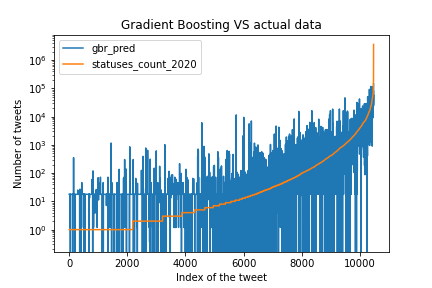
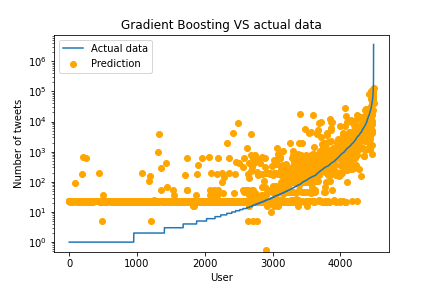
Modified things

diff --git a/index.html b/index.html
@@ -23,8 +23,7 @@ description: "Data story"
   </p>
   <p>
     <div>
-      <h4>Results</h4>
-      <h5>Monthly Rhythms</h5>
+      <h3>Monthly Rhythms</h3>
       <p class="blocktext">
       Let's first look at how much do people posts during a year.
       </p>
@@ -68,70 +67,97 @@ description: "Data story"
               </div>
               <div class="grid-child two">
                   <p class="blocktext">
-                   Now, about the other months, there seems to be a different case for each year, this might be explained by different events which create a lot of discussion/post,
-                  such as the US election in late 2011 or the <a href="https://en.wikipedia.org/wiki/UEFA_Euro_2012" style="text-decoration-line: underline;">UEFA EURO in June 2012</a>. 
-                  Looking at the number of tweets made in 2012 by Spanish speakers, who are huge football fans and followed the adventure of their team from start to finish,
-                  a clear spike appears on June compared to the other years.
+                   Now, if we take a look at the other months, we can not really point out a month that is always bigger than the others or distinguish any pattern. 
+                   This might be explained by different events which create a lot of discussion/post,
+                   such as the US election in late 2011 or the <a href="https://en.wikipedia.org/wiki/UEFA_Euro_2012" style="text-decoration-line: underline;">UEFA EURO in June 2012</a>.
+                   Furthermore, the distribution  appears to become more uniform as the user database grows. Indeed we see that overall, the number of tweets increased by 550%
+                   from 2011 to 2013.
+                   
                    </p>
               </div>
           </div>
   </div>
   </p>
+  <p>We thus wanted to check if events had a real influence on how people tweet. We take the example of the Euro. <br> 
+    Looking at the number of tweets made in 2012 by Spanish speakers, who are huge football fans and followed the adventure of their team from start to finish,
+    a clear spike appears in June compared to the other years.
+    </p>
+
   <p class="images">
     <div class="grid-container">
       <div class="grid-child one">
-          <img src="{{ site.baseurl}}/assets/images/spanishmonth2011.png" />
+          <img src="{{ site.baseurl}}/assets/images/spanish2011.png" />
       </div>
       
       <div class="grid-child two">
-        <img src="{{ site.baseurl}}/assets/images/spanishmonth2012.png"  />
+        <img src="{{ site.baseurl}}/assets/images/spanish2012.png"  />
       </div>
 
       <div class="grid-child three">
-        <img src="{{ site.baseurl}}/assets/images/spanishmonth2013.png" />
+        <img src="{{ site.baseurl}}/assets/images/spanish2013.png" />
+      </div>
+      <div class="grid-child four">
+        <p>
+          This example strengthens the hypothesis that there is no monthly pattern. It's a lot more probable that the number of tweets is correlated to 
+          what happens during the year, thus being highly influenced by predictable or unpredictable events.
+          We could for example imagine that the number of tweets for the year 2020 would explode around
+          March/April because of COVID and around October/November because of this historic US election, having a president that tweets a lot.
+        </p>
       </div>
   </div>
   </p>
 
-  <p>
-    This shows that there is no monthly pattern as the number of tweets seems to be correlated to what happens during the year, thus being highly influenced by
-    predictable or unpredictable events. We could for example imagine that the number of tweets for the year 2020 would explode around
-    March/April because of COVID and around October/November because of this historic US election, having a president that tweets a lot.
-  </p>
-
-  <h5>How much will a user tweet?</h5>
+  <h3>How much will a user tweet?</h3>
   <p>
     Can we predict how much a user will post in 2020, knowing how many followers, followees he has and how those features evolved since 2014. Of course not! 
     But we still tried just to prove that human behaviour is highly unpredictable.
   </p>
-  <div>
-    <h4>Results</h4>
+  <h4>Train step</h4>
     <p>
-    First of all, some cross-validation steps were performed. 
+    First of all, we went with a blunt try and kept the data unchanged (Spoiler Alert: didn't work well...). We tried 2 different models to predict those values.
+    One was Ridge Regression, the other was a Gradient Boosting Regression model. <br>
+    As we are conscientious (aspiring) Data Scientists, we first performed some cross-validation on the dataset. We used the R<sup>2</sup> value to choose our hyperparameter. 
+    </p>
+    <p class="images">
+      <div class="grid-container">
+        <div class="grid-child one">
+            <img src="{{ site.baseurl }}/assets/images/CrossValRidge.png" />
+        </div>
+        
+        <div class="grid-child two">
+          <img src="{{ site.baseurl }}/assets/images/CrossValGBR.png"  />
+        </div>
+      </div>
+    </p>
+  
+    <p>
+    Those graphs seem to show, in addition to the best hyperparameters for both models, that Gradient Boosting manages to explain slightly better the data compared to
+    Ridge Regression.
+    We see that Ridge Regression performs very poorly unless the alpha parameter is in the order of 10<sup>10</sup> Gradient Boosting however doesn't change much on based on
+    the learning rate for the best model.
+    </p>
+    <h4>Test our best models</h4>
+    <p>
+      Now that we have our prepared our models and found the best hyperparameters, let's test them.
+    </p>
+    <p class="images">
+      <div class="grid-container">
+        <div class="grid-child one">
+            <img src="{{ site.baseurl }}/assets/images/rrpred.png" />
+        </div>
+        
+        <div class="grid-child two">
+          <img src="{{ site.baseurl }}/assets/images/gbrpred.png"  />
+        </div>
+      </div>
     </p>
     <p>
-    <img src="{{ site.baseurl }}/assets/images/CrossValRidge.png" class="half_width" />
-    <legend>Cross Validation for Ridge</legend>
-    <img src="{{ site.baseurl }}/assets/images/CrossValGBR.png" class="half_width" />
-    <legend>Cross Validation for Gradient Boosting</legend>
-    </p>
-    <p>
-    Those graphs seem to show, in addition to the best hyperparameters for both models, that Gradient Boosting will be outputting better predictions than Ridge.
-    </p>
-    <p>
-    <img src="{{ site.baseurl }}/assets/images/rrpred.png" class="half_width" />
-    <legend>Ridge prediction vs Actual data</legend>
-    <img src="{{ site.baseurl }}/assets/images/gbrpred.png" class="half_width" />
-    <legend>Gradient Boosting vs Actual data</legend>
-    </p>
-    <p>
-    <h4>Analysis</h4>
-    <p>
+    Okay. That is a bit embarassing. Both methods seem to give quite poor results.  
     In reality, both these methods seem to give quite poor results. First of all, each model has a tendency to find some negative values, Gradient Boosting more than Ridge, which we know is impossible as no users could have a negative number of tweets. A reason this might occur is the existence of a reduction in the number of tweets for some user, in fact some user might have deleted their tweets for whatever reason, meaning that the number of tweets over time is going down. Then, we can clearly see a sort of constant at the start of each graph, with the one of Gradient Boosting being lower even though less visible than the one of Ridge, meaning that the models do not distinguish lower values very well.
     All in all, it is unlikely to be able to predict the number of tweets a user will be making in 6 years based on some old data, because the number of tweets made by an account does not seem to correlate with the number of followers a user has.
     
     Some idea to perform better would be to have a better history of the account, maybe on a year by year basis instead of a chunk of many year all in one category.
     </p>
-    </div>
-
+    <h4>Try a better approach</h4>
+    <p></p>
 </div>

diff --git a/_site/index.html b/_site/index.html
@@ -88,8 +88,7 @@
   </p>
   <p>
     <div>
-      <h4>Results</h4>
-      <h5>Monthly Rhythms</h5>
+      <h3>Monthly Rhythms</h3>
       <p class="blocktext">
       Let's first look at how much do people posts during a year.
       </p>
@@ -133,72 +132,97 @@
               </div>
               <div class="grid-child two">
                   <p class="blocktext">
-                   Now, about the other months, there seems to be a different case for each year, this might be explained by different events which create a lot of discussion/post,
-                  such as the US election in late 2011 or the <a href="https://en.wikipedia.org/wiki/UEFA_Euro_2012" style="text-decoration-line: underline;">UEFA EURO in June 2012</a>. 
-                  Looking at the number of tweets made in 2012 by Spanish speakers, who are huge football fans and followed the adventure of their team from start to finish,
-                  a clear spike appears on June compared to the other years.
+                   Now, if we take a look at the other months, we can not really point out a month that is always bigger than the others or distinguish any pattern. 
+                   This might be explained by different events which create a lot of discussion/post,
+                   such as the US election in late 2011 or the <a href="https://en.wikipedia.org/wiki/UEFA_Euro_2012" style="text-decoration-line: underline;">UEFA EURO in June 2012</a>.
+                   Furthermore, the distribution  appears to become more uniform as the user database grows. Indeed we see that overall, the number of tweets increased by 550%
+                   from 2011 to 2013.
+                   
                    </p>
               </div>
           </div>
   </div>
   </p>
+  <p>We thus wanted to check if events had a real influence on how people tweet. We take the example of the Euro. <br> 
+    Looking at the number of tweets made in 2012 by Spanish speakers, who are huge football fans and followed the adventure of their team from start to finish,
+    a clear spike appears in June compared to the other years.
+    </p>
+
   <p class="images">
     <div class="grid-container">
       <div class="grid-child one">
-          <img src="/assets/images/spanishmonth2011.png" />
+          <img src="/assets/images/spanish2011.png" />
       </div>
       
       <div class="grid-child two">
-        <img src="/assets/images/spanishmonth2012.png"  />
+        <img src="/assets/images/spanish2012.png"  />
       </div>
 
       <div class="grid-child three">
-        <img src="/assets/images/spanishmonth2013.png" />
+        <img src="/assets/images/spanish2013.png" />
+      </div>
+      <div class="grid-child four">
+        <p>
+          This example strengthens the hypothesis that there is no monthly pattern. It's a lot more probable that the number of tweets is correlated to 
+          what happens during the year, thus being highly influenced by predictable or unpredictable events.
+          We could for example imagine that the number of tweets for the year 2020 would explode around
+          March/April because of COVID and around October/November because of this historic US election, having a president that tweets a lot.
+        </p>
       </div>
   </div>
   </p>
 
-  <p>
-    This shows that there is no monthly pattern as the number of tweets seems to be correlated to what happens during the year, thus being highly influenced by
-    predictable or unpredictable events. We could for example imagine that the number of tweets for the year 2020 would explode around
-    March/April because of COVID and around October/November because of this historic US election, having a president that tweets a lot.
-  </p>
-
-  <h5>How much will a user tweet?</h5>
+  <h3>How much will a user tweet?</h3>
   <p>
     Can we predict how much a user will post in 2020, knowing how many followers, followees he has and how those features evolved since 2014. Of course not! 
     But we still tried just to prove that human behaviour is highly unpredictable.
   </p>
-  <div>
-    <h4>Results</h4>
+  <h4>Train step</h4>
     <p>
-    First of all, some cross-validation steps were performed. 
+    First of all, we went with a blunt try and kept the data unchanged (Spoiler Alert: didn't work well...). We tried 2 different models to predict those values.
+    One was Ridge Regression, the other was a Gradient Boosting Regression model. <br>
+    As we are conscientious (aspiring) Data Scientists, we first performed some cross-validation on the dataset. We used the R<sup>2</sup> value to choose our hyperparameter. 
+    </p>
+    <p class="images">
+      <div class="grid-container">
+        <div class="grid-child one">
+            <img src="/assets/images/CrossValRidge.png" />
+        </div>
+        
+        <div class="grid-child two">
+          <img src="/assets/images/CrossValGBR.png"  />
+        </div>
+      </div>
+    </p>
+  
+    <p>
+    Those graphs seem to show, in addition to the best hyperparameters for both models, that Gradient Boosting manages to explain slightly better the data compared to
+    Ridge Regression.
+    We see that Ridge Regression performs very poorly unless the alpha parameter is in the order of 10<sup>10</sup> Gradient Boosting however doesn't change much on based on
+    the learning rate for the best model.
+    </p>
+    <h4>Test our best models</h4>
+    <p>
+      Now that we have our prepared our models and found the best hyperparameters, let's test them.
+    </p>
+    <p class="images">
+      <div class="grid-container">
+        <div class="grid-child one">
+            <img src="/assets/images/rrpred.png" />
+        </div>
+        
+        <div class="grid-child two">
+          <img src="/assets/images/gbrpred.png"  />
+        </div>
+      </div>
     </p>
     <p>
-    <img src="/assets/images/CrossValRidge.png" class="half_width" />
-    <legend>Cross Validation for Ridge</legend>
-    <img src="/assets/images/CrossValGBR.png" class="half_width" />
-    <legend>Cross Validation for Gradient Boosting</legend>
-    </p>
-    <p>
-    Those graphs seem to show, in addition to the best hyperparameters for both models, that Gradient Boosting will be outputting better predictions than Ridge.
-    </p>
-    <p>
-    <img src="/assets/images/rrpred.png" class="half_width" />
-    <legend>Ridge prediction vs Actual data</legend>
-    <img src="/assets/images/gbrpred.png" class="half_width" />
-    <legend>Gradient Boosting vs Actual data</legend>
-    </p>
-    <p>
-    <h4>Analysis</h4>
-    <p>
+    Okay. That is a bit embarassing. Both methods seem to give quite poor results.  
     In reality, both these methods seem to give quite poor results. First of all, each model has a tendency to find some negative values, Gradient Boosting more than Ridge, which we know is impossible as no users could have a negative number of tweets. A reason this might occur is the existence of a reduction in the number of tweets for some user, in fact some user might have deleted their tweets for whatever reason, meaning that the number of tweets over time is going down. Then, we can clearly see a sort of constant at the start of each graph, with the one of Gradient Boosting being lower even though less visible than the one of Ridge, meaning that the models do not distinguish lower values very well.
     All in all, it is unlikely to be able to predict the number of tweets a user will be making in 6 years based on some old data, because the number of tweets made by an account does not seem to correlate with the number of followers a user has.
     
     Some idea to perform better would be to have a better history of the account, maybe on a year by year basis instead of a chunk of many year all in one category.
     </p>
-    </div>
-
 </div>
 		</div>
 	</div>
